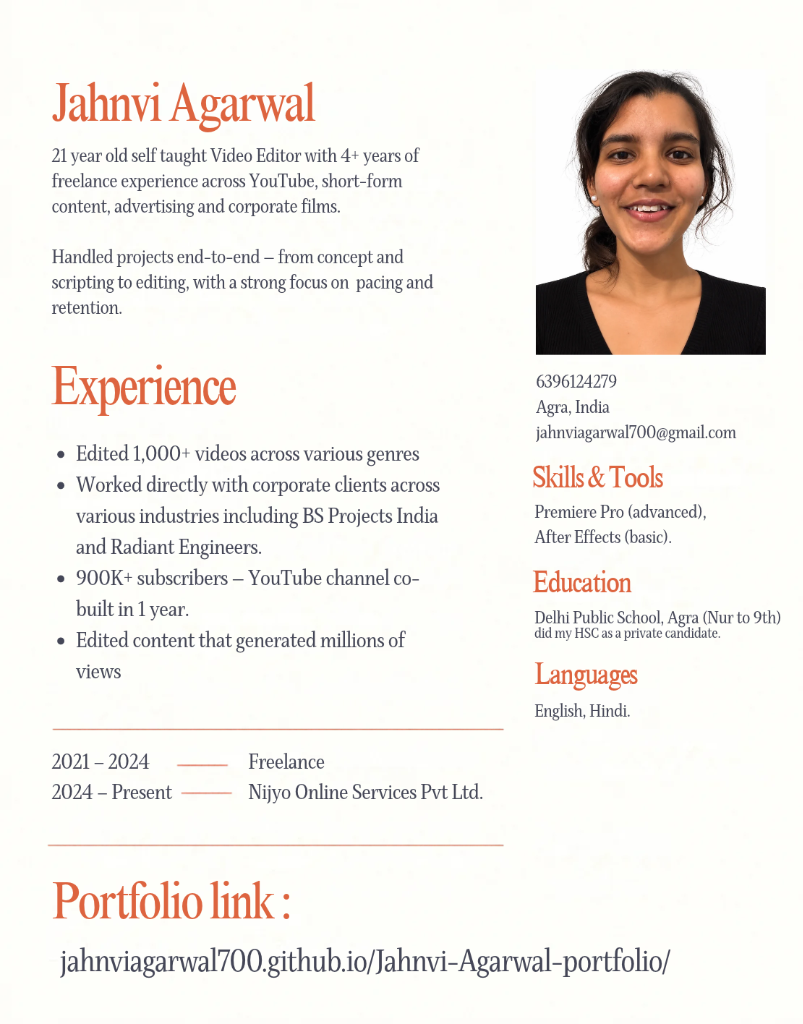
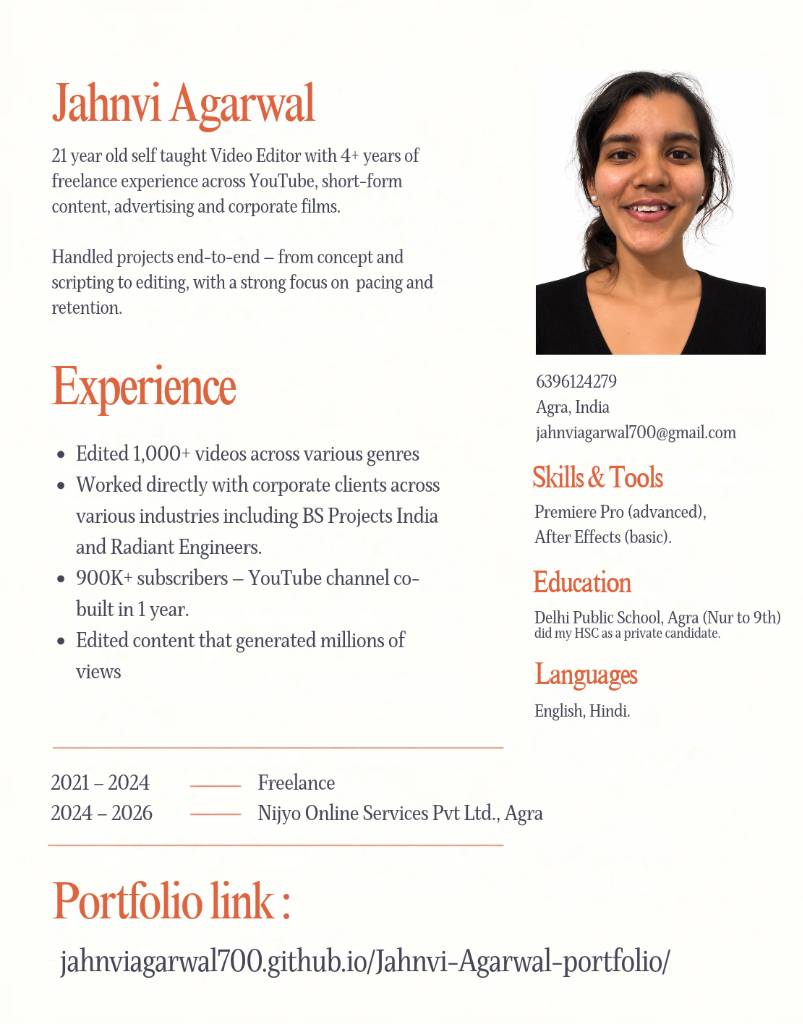
Update Resume with latest timeline (2024-2026, Nijyo Online Services, Agra) and v4 assets

Changed region(s): [[0.3113, 0.7188, 0.6849, 0.8125], [0.0623, 0.7188, 0.2179, 0.8125], [0.2179, 0.7188, 0.2802, 0.7812]]

diff --git a/src/components/ArchiveSection.tsx b/src/components/ArchiveSection.tsx
@@ -659,8 +659,8 @@ const FOLDER_PHOTOS: Record<string, string[]> = {
     'images/tools-workstation.webp'
   ],
   'resume': [
-    'images/resume-v3.webp',
-    'images/resume-v3.png'
+    'images/resume-v4.webp',
+    'images/resume-v4.png'
   ]
 };
 
@@ -679,8 +679,8 @@ const ALL_ARCHIVE_PHOTOS: string[] = [
   'images/archive-reel-21-poster.webp',
   'images/tools-workstation.webp',
   'images/about-childhood.webp',
-  'images/resume-v3.webp',
-  'images/resume-v3.png'
+  'images/resume-v4.webp',
+  'images/resume-v4.png'
 ];
 
 const preloadedUrls = new Set<string>();
@@ -1274,7 +1274,7 @@ export const ArchiveSection: React.FC = () => {
                       Resume
                     </h1>
                     <a
-                      href={getAssetUrl('images/resume-v3.png')}
+                      href={getAssetUrl('images/resume-v4.png')}
                       download="Jahnvi-Agarwal-Resume.png"
                       className="resume-download-btn"
                       aria-label="Download Jahnvi Agarwal's Resume"
@@ -1293,16 +1293,16 @@ export const ArchiveSection: React.FC = () => {
                   <div
                     className="resume-photo-block"
                     aria-label="Jahnvi Agarwal — Resume Document"
-                    onClick={() => setZoomedPhoto(getAssetUrl('images/resume-v3.png'))}
-                    onKeyDown={(e) => (e.key === 'Enter' || e.key === ' ') && setZoomedPhoto(getAssetUrl('images/resume-v3.png'))}
+                    onClick={() => setZoomedPhoto(getAssetUrl('images/resume-v4.png'))}
+                    onKeyDown={(e) => (e.key === 'Enter' || e.key === ' ') && setZoomedPhoto(getAssetUrl('images/resume-v4.png'))}
                     role="button"
                     tabIndex={0}
                     style={{ cursor: 'pointer' }}
                     title="Click to zoom resume"
                   >
                     <img
-                      src={getAssetUrl('images/resume-v3.webp')}
-                      onError={(e) => { e.currentTarget.src = getAssetUrl('images/resume-v3.png'); }}
+                      src={getAssetUrl('images/resume-v4.webp')}
+                      onError={(e) => { e.currentTarget.src = getAssetUrl('images/resume-v4.png'); }}
                       alt="Jahnvi Agarwal — Official Resume"
                       className="resume-photo-img"
                       loading="eager"
